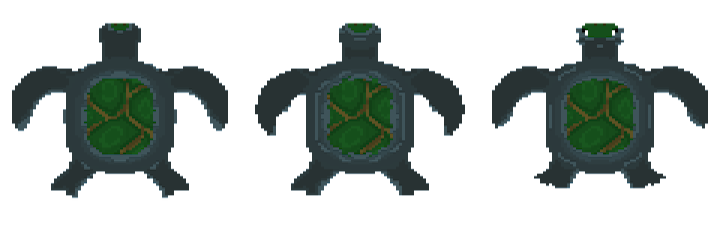
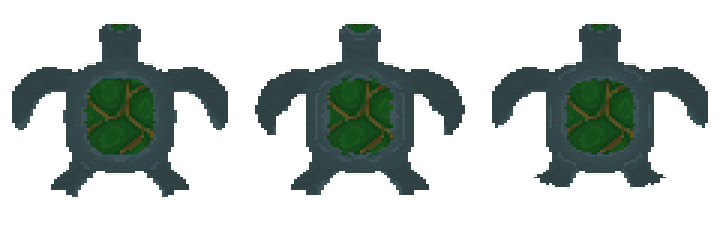
Improved tortle! + catacombs lighting changes

diff --git a/gamedata/areadata.js b/gamedata/areadata.js
@@ -11909,11 +11909,11 @@ caveEntrance: {
 		solidTiles: [23, 24, 33, 34],
 		pathTiles: [],
 		waterTiles: [28, 10, 20],
-		lightEmitTiles: [{tile: 871, brightness: 0.8, radius: 150}, {tile: 872, brightness: 0.8, radius: 150}],
+		lightEmitTiles: [{tile: 871, brightness: 0.5, radius: 75}, {tile: 872, brightness: 0.8, radius: 75}],
 		animateTiles: [{
 			// water
 			tiles: [881, 889, 897],
-			animateTime: 250,
+			animateTime: 400,
 		},
 		{
 			// torch
@@ -11946,8 +11946,8 @@ caveEntrance: {
 things: [
 
 	{
-			x: [1283],
-			y: [2800],
+			x: [1293],
+			y: [2820],
 			z: [-1],
 			name: "tortle",
 			image: "tortle",
